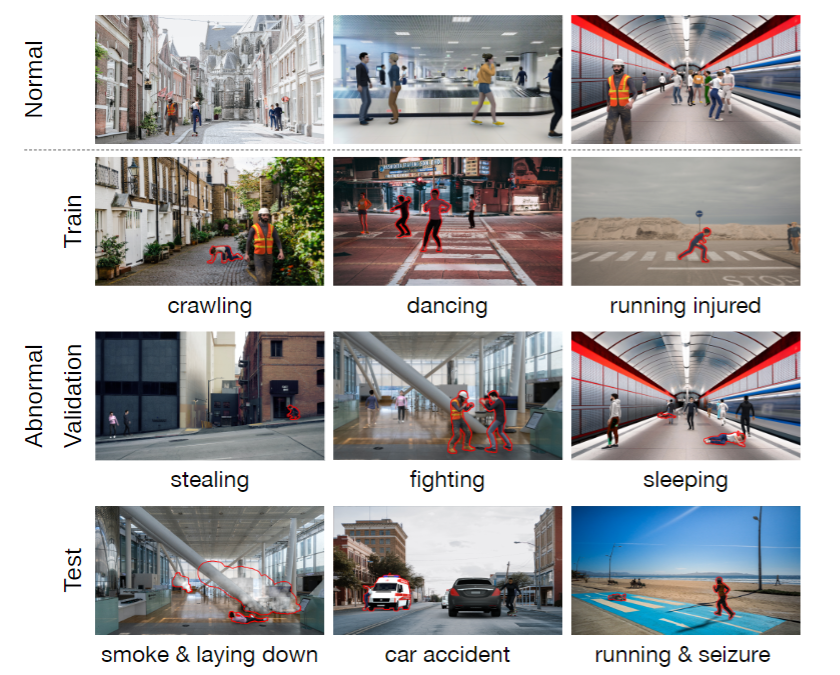
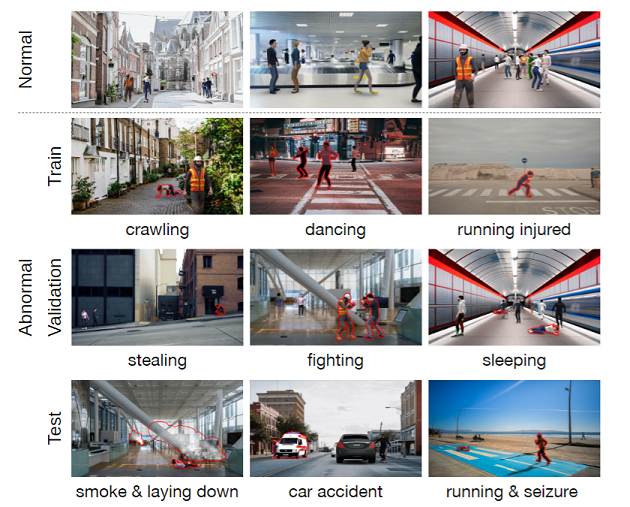
decrease img size

diff --git a/README.md b/README.md
@@ -19,7 +19,9 @@ ArXiv URL: https://arxiv.org/pdf/2111.08644.pdf
   
   [Statistics](#statistics)
   
-  [License](#something-else)
+  [State-of-the-art results](#State-of-the-art-results)
+  
+  [License](#license)
   
   [Citation](#citation) 
  
@@ -27,9 +29,8 @@ ArXiv URL: https://arxiv.org/pdf/2111.08644.pdf
 ### Description
 UBnormal is new supervised open-set benchmark composed of multiple virtual scenes for video anomaly detection. Unlike existing data sets, we introduce abnormal events annotated at the pixel level at training time, for the first time enabling the use of fully-supervised learning methods for abnormal event detection. To preserve the typical open-set formulation, we make sure to include disjoint sets of anomaly types in our training and test collections of videos.
 
-Examples of actions from our data set:
-This is the pipeline of our framework:
-![examples](imgs/ubnormal_examples.png) 
+Examples of actions from our data set:   
+![ubnormal_examples](imgs/ubnormal_examples.png) 
 
 ### Download
 The UBnormal* data set can be downloaded from [here](link).
@@ -37,6 +38,9 @@ The UBnormal* data set can be downloaded from [here](link).
 ###### *We do not release the ground-truth labels for the test set.
 
 ### Statistics
+TODO:
+
+### State-of-the-art results
 TODO:
 
 ## License
